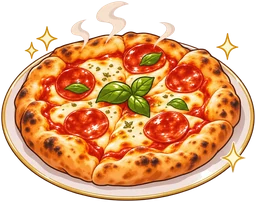
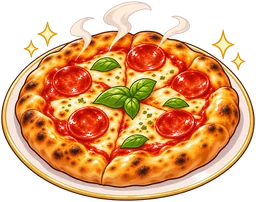
Eight anime dishes in the game
Steak, paella, burger, pizza, cake, cupcake, flan and sundae from
anime_food_9_dishes.zip (its food_pasta.png was a second paella, so pasta
stays an emoji for now). Dishes now fit a square so tall ones (cupcake,
sundae, burger) stay inside the tickets.

diff --git a/index.html b/index.html
@@ -536,8 +536,8 @@ canvas{border-radius:0}
 .rcap{right:150px}
 .dwaiter .sp{height:62px;width:auto;display:block;transition:transform .2s;filter:drop-shadow(0 4px 6px rgba(0,0,0,.5))}
 .dwaiter.kick .sp{transform:translateY(-6px)}
-.dtk .fd{width:38px;height:auto;display:block;margin:-4px auto 0}
-.dstove .fd{width:34px;height:auto;display:block}
+.dtk .fd{width:38px;height:34px;object-fit:contain;display:block;margin:-4px auto 0}
+.dstove .fd{width:34px;height:30px;object-fit:contain;display:block}
 </style>
 </head>
 <body>
@@ -1590,7 +1590,7 @@ function foodSprite(e) {
 const foodHTML = e => FOOD[e] ? `<img class="fd" src="cast/food/food-${FOOD[e]}.webp" alt="${e}" onerror="this.replaceWith(this.alt)">` : e;
 function emoji(e, x, y, size) {
   const im = foodSprite(e);
-  if (im) { const w = size * 1.5, h = w * im.naturalHeight / im.naturalWidth; ctx.drawImage(im, x - w / 2, y - h / 2, w, h); return }
+  if (im) { const k = size * 1.5 / Math.max(im.naturalWidth, im.naturalHeight), w = im.naturalWidth * k, h = im.naturalHeight * k; ctx.drawImage(im, x - w / 2, y - h / 2, w, h); return }
   txt(e, x, y, `${size}px ${EMO}`, '#000', 'center', 'middle');
 }
 function xlabel(s, x, y, align = 'center') {

diff --git a/art/tools/foodshot.py b/art/tools/foodshot.py
@@ -1,0 +1,14 @@
+from playwright.sync_api import sync_playwright
+with sync_playwright() as p:
+    b = p.chromium.launch(); pg = b.new_page(viewport={"width": 1440, "height": 900})
+    errs = []; pg.on("pageerror", lambda e: errs.append(str(e)))
+    pg.goto("file:///work/index.html"); pg.wait_for_timeout(800)
+    pg.click("#hfree"); pg.wait_for_timeout(800)
+    pg.get_by_text("Open the kitchen").click(); pg.wait_for_timeout(500)
+    pg.click("#hire"); pg.wait_for_timeout(500)
+    pg.locator("button", has_text="Open the dessert station").first.click(); pg.wait_for_timeout(500)
+    pg.evaluate("S.rate = 1.6"); pg.wait_for_timeout(14000)
+    box = pg.locator("#cv").bounding_box()
+    pg.screenshot(path="/work/art/explore/food-game.png", clip={"x": box["x"], "y": box["y"], "width": box["width"], "height": min(box["height"], 900 - box["y"])})
+    print("errors:", errs or "none")
+    b.close()
